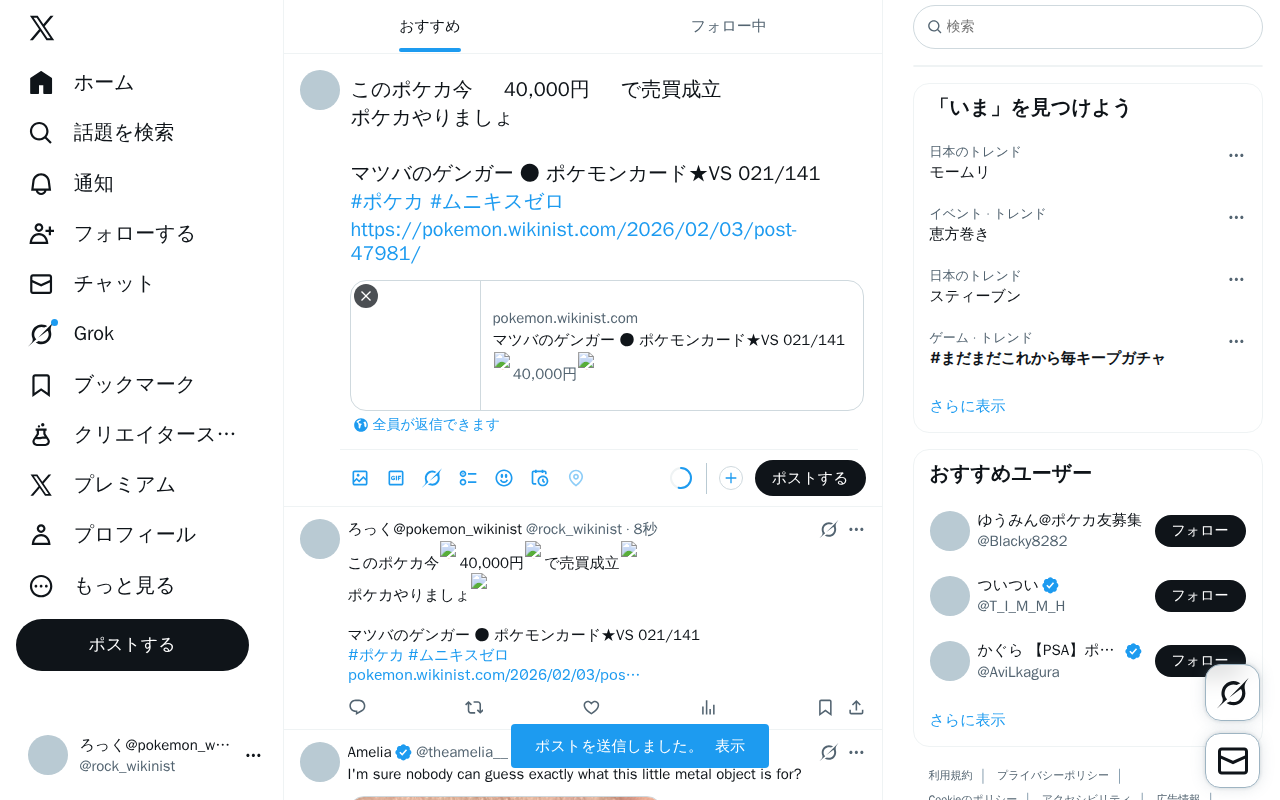
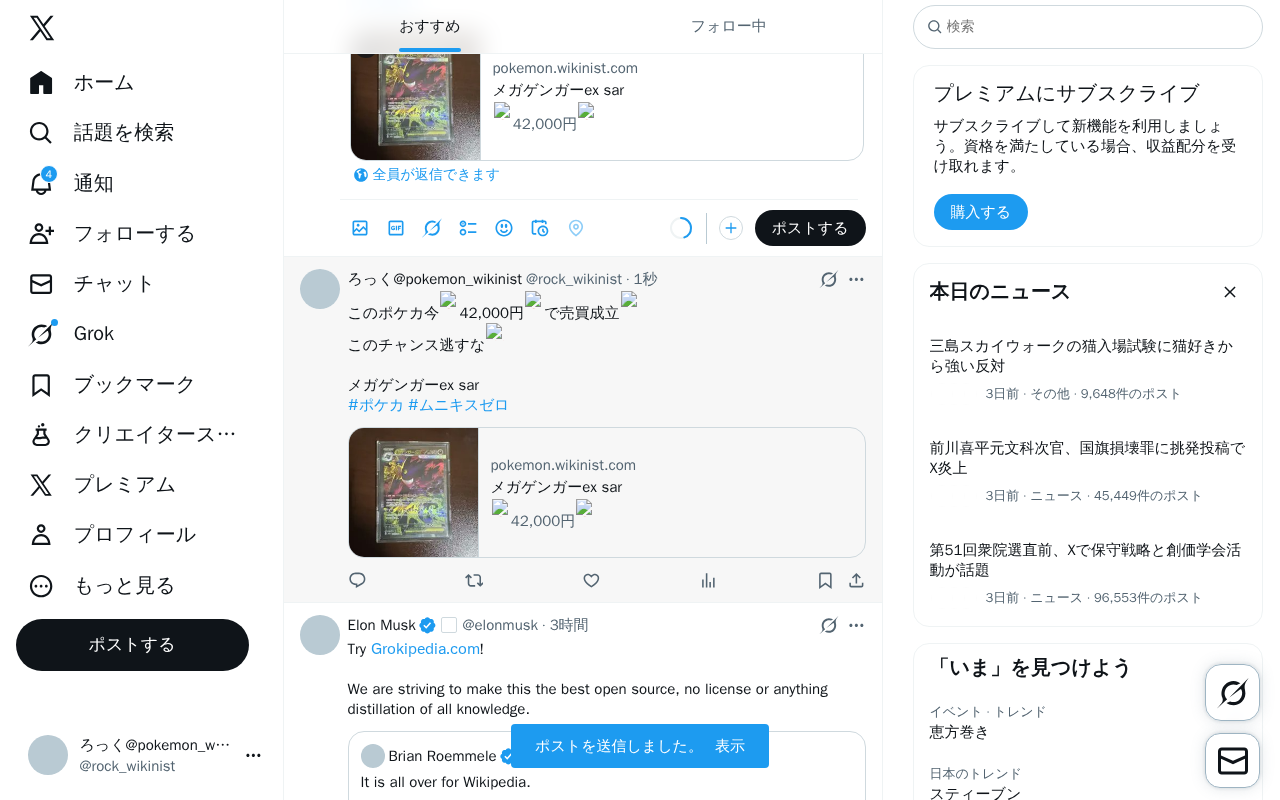
update system data

diff --git a/content/posts/test-pokemon-20260203-131817.md b/content/posts/test-pokemon-20260203-131817.md
@@ -1,0 +1,37 @@
+---
+title: "メガゲンガーex sar"
+date: 2026-02-03T13:18:17+09:00
+description: "🔥42,000円🔥 メルカリで「メガゲンガーex sar」が販売中！"
+amazon_url: "https://jp.mercari.com/item/m54384506092?afid=1391290753"
+categories: ["ポケモン"]
+tags: ["ゲンガー", "3万円以上"]
+cover:
+  image: "https://static.mercdn.net/thumb/item/webp/m54384506092_1.jpg?1770030377"
+  hiddenInList: true
+  hiddenInSingle: true
+---
+
+<div class="image-and-buttons">
+    <div class="image-area" style="margin-bottom: 20px; text-align: center;">
+        <a href="https://jp.mercari.com/item/m54384506092?afid=1391290753" target="_blank" rel="nofollow sponsored noopener noreferrer">
+            <img src="https://static.mercdn.net/thumb/item/webp/m54384506092_1.jpg?1770030377" alt="42,000" style="max-width: 100%; border-radius: 8px; border: 1px solid #ddd;" />
+        </a>
+        <br><span style="font-size:1.5em;color:red;font-weight:bold;">🔥42,000円🔥</span>
+    </div>
+    <div class="link-buttons">
+        <a href="https://jp.mercari.com/item/m54384506092?afid=1391290753" target="_blank" rel="nofollow sponsored noopener noreferrer">
+            💎 商品状態を見る
+        </a>
+        <a href="https://jp.mercari.com/search?afid=1391290753&category_id=1289&keyword=%E3%83%A1%E3%82%AC%E3%82%B2%E3%83%B3%E3%82%AC%E3%83%BCex%20sar" target="_blank" rel="nofollow sponsored noopener noreferrer">
+            🔍 類似商品を見る
+        </a>
+        <a href="https://jp.mercari.com/search?afid=1391290753&brand_id=&category_id=1289&color_id=&item_condition_id=&item_types=&keyword=%E3%83%A1%E3%82%AC%E3%82%B2%E3%83%B3%E3%82%AC%E3%83%BCex%20sar&order=desc&shipping_method=&shipping_payer_id=&size_id=&sort=created_time&status=sold_out%2Ctrading" target="_blank" rel="nofollow sponsored noopener noreferrer">
+            📈 価格推移・履歴を見る
+        </a>
+    </div>
+</div>
+
+<p style="font-size:1.0em;color:#555;line-height:1.6;">
+「メガゲンガーex sar」はメルカリに出品されました！<br>
+最新のポケモン情報は当サイトで随時更新中です。
+</p>
